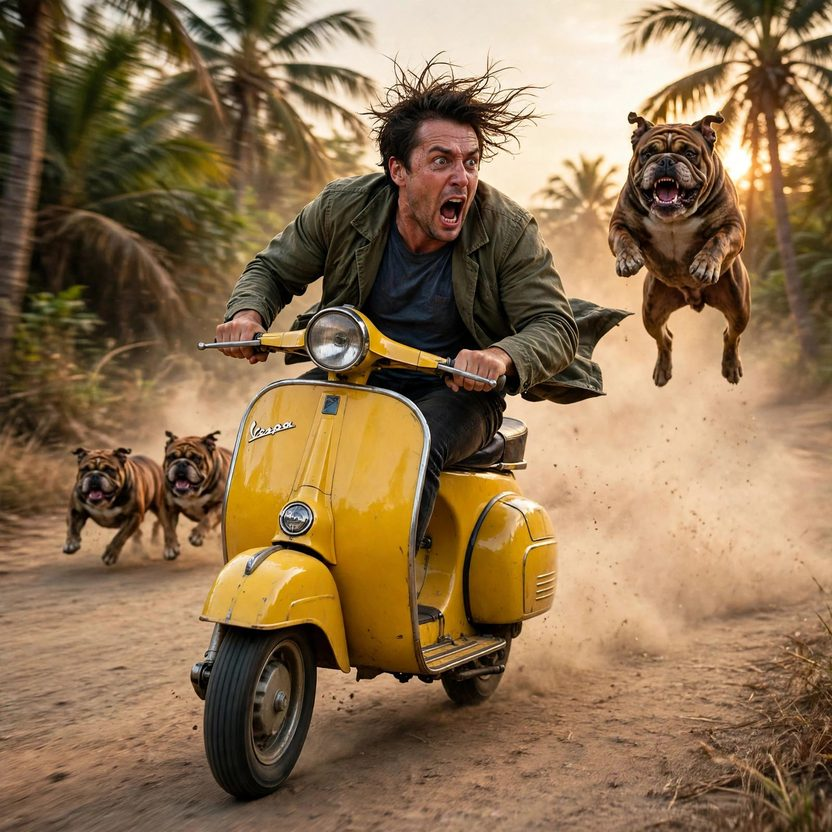
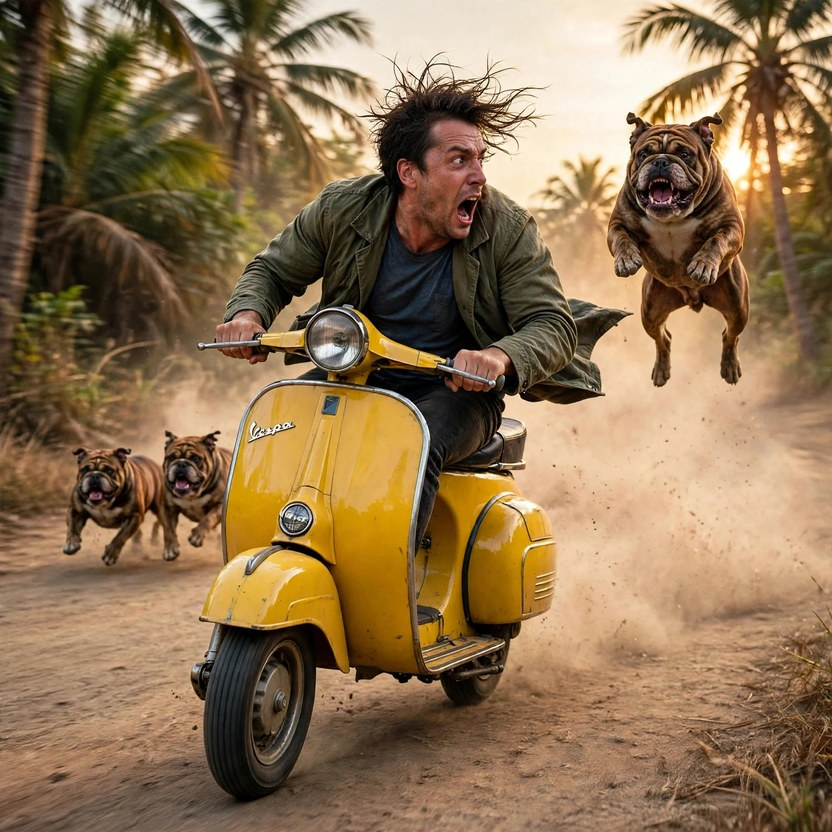
Vespa vs Bulldogs R4 tweak 2: man glances sideways at the leaping bulldog

diff --git a/main.ts b/main.ts
@@ -2,12 +2,14 @@
 // only).
 //
 // The entry is a single image: a terrified man on a bright yellow vintage
-// Vespa scooter screaming in pure panic as he flees down a dusty tropical
+// Vespa scooter screaming in pure panic, his eyes glancing sideways at the
+// leaping bulldog, as he flees down a dusty tropical
 // road lined with palm trees, chased at full sprint by three fierce
 // bulldogs — one leaping high into the air behind the scooter with its jaws
 // wide open, the other two sprinting further back kicking up a dust cloud,
 // golden late-afternoon light. Pure chase energy: panic, comedy and momentum in
-// one frame, a face you can read from across the room. This program
+// one frame, a face you can read from across the room — the sideways glance
+// at the dog sells the terror. This program
 // delivers the image the repository carries: it reads the entry.png that
 // sits next to this file and writes those exact bytes to
 // /output/entry.png, where the grader looks for them. The copy is
